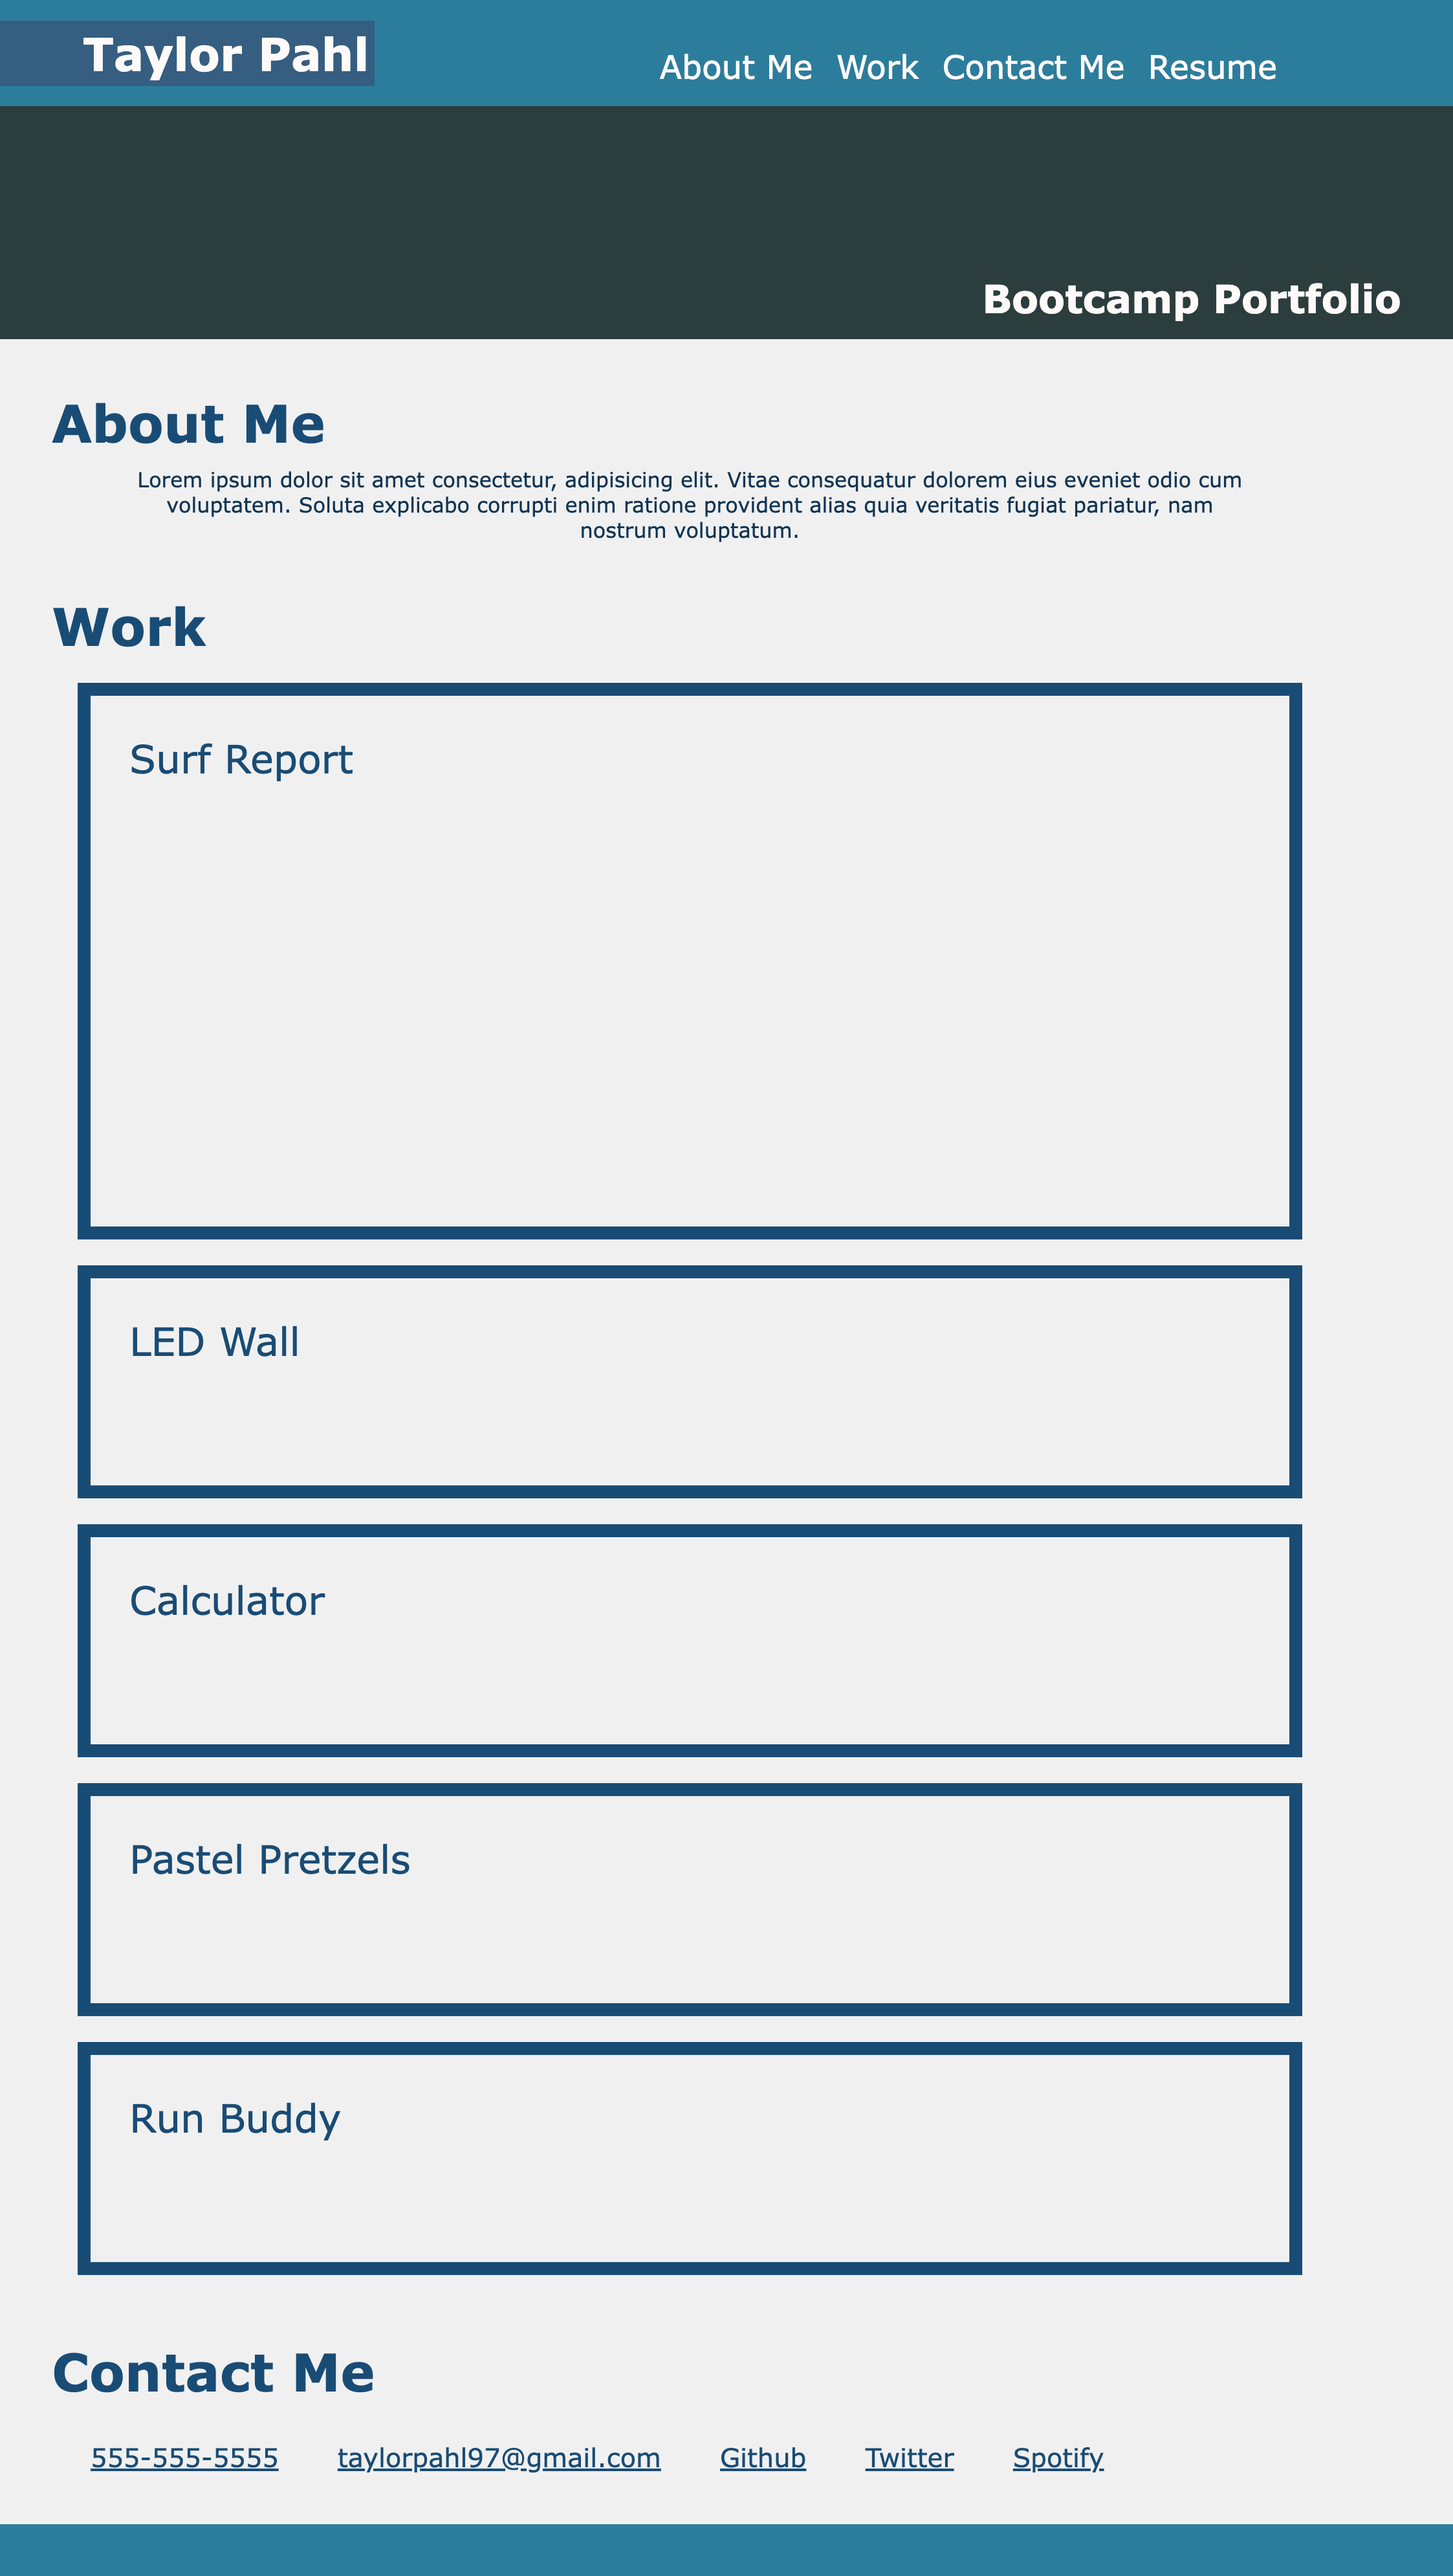
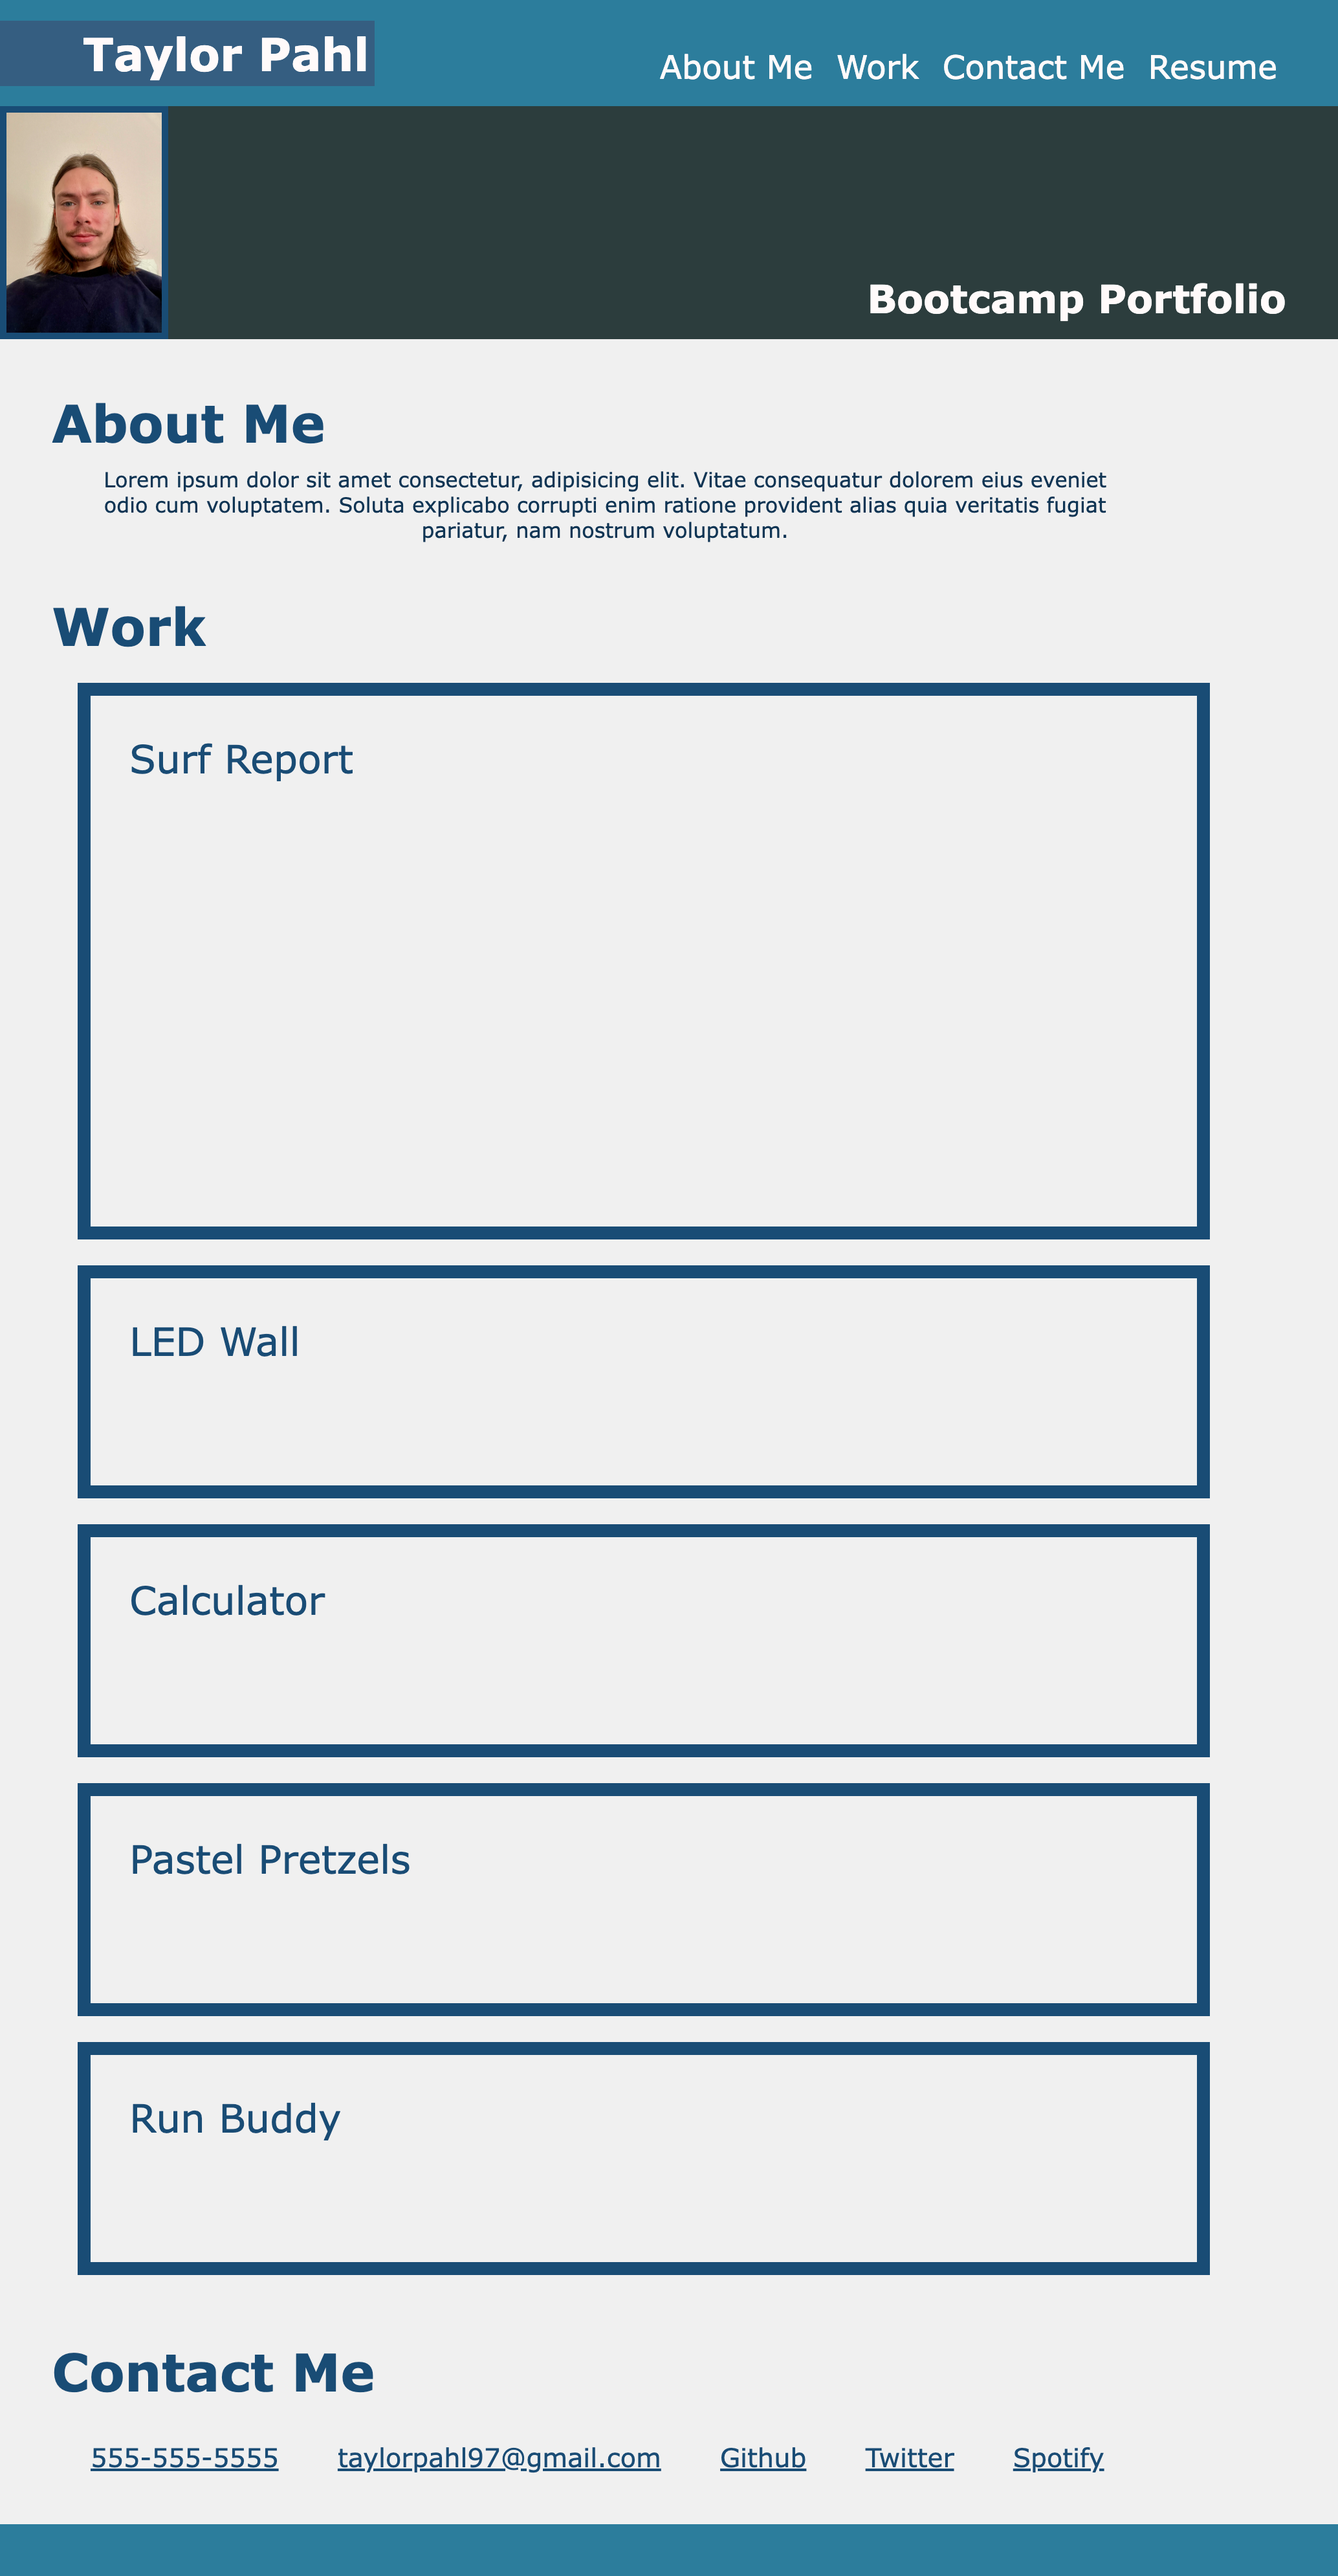
Added image to html

diff --git a/style.css b/style.css
@@ -17,6 +17,15 @@ h1 {
     display: inline;
 }
 
+img {
+    position: absolute;
+    width: 120px;
+    height: 170px;
+    border: solid rgb(25, 76, 117);
+    border-width: 5px;
+    z-index: 1;
+}
+
 nav a {
     position: relative;
     top: 10px;
@@ -67,6 +76,7 @@ h2 {
     top: 130px;
     float: right;
     margin: 0px 40px 15px 0px;
+    z-index: 2;
 }
 
 h3 {
@@ -84,7 +94,7 @@ h3 {
 p {
     color: rgb(15, 53, 85);
     max-width: 80%;
-    margin: 10px 10px 0px 60px;
+    margin: 10px 10px 0px 30px;
 }
 
 .main {

diff --git a/index.html b/index.html
@@ -26,6 +26,7 @@
     </header>
     <main>
         <section class="subheader">
+            <img src="assets/images/IMG_7602.jpeg">
             <h2>Bootcamp Portfolio</h2>
         </section>
         <section class="about" id="about">

diff --git a/README.md b/README.md
@@ -18,6 +18,9 @@ Potential employers can use this webpage to view my prior work.
 
 ![image](/assets/images/_Users_taylorpahl_bootcamp_challenge-2_index.html.png)
 
+## Link
+
+
 
 ## Credits
 
